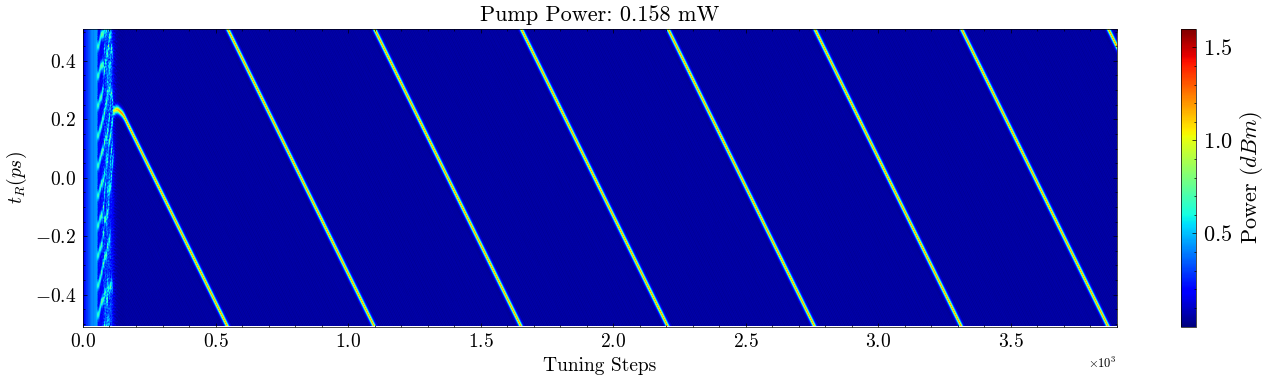
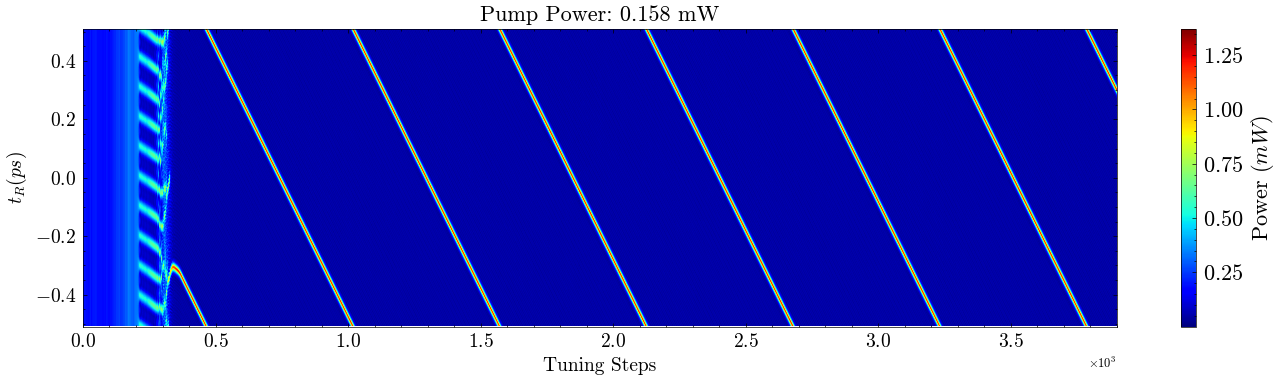
rl results update

diff --git a/rl_mrr_toptica_mimic_to_noise_test.py b/rl_mrr_toptica_mimic_to_noise_test.py
@@ -20,7 +20,7 @@ H_BAR = cts.hbar
 # %%
 class RL_MRR_Env():
 
-    def __init__(self, seq_len=50, p_max=0.3, p_min=0.1, ctrl_freq=100):
+    def __init__(self, seq_len=50, p_max=0.3, p_min=0.1, ctrl_freq=100, thermal_effect='moderate'):
         super(RL_MRR_Env, self).__init__()
 
         self.step_cntr = 0
@@ -90,8 +90,16 @@ class RL_MRR_Env():
         alpha = k0+kext
         self.alpha = alpha
 
+        if thermal_effect == 'low':
+            self.xi = -1.2e4
+        elif thermal_effect == 'moderate':
+            self.xi = -4.5e4
+        elif thermal_effect == 'high':
+            self.xi = -1.2e5
+        else:
+            raise ValueError("Invalid thermal effect. Choose from 'low', 'moderate', or 'high'.")
+
         self.tau0 = 100e-9
-        self.xi = -4.5e4
         self.delta_theta = torch.tensor(0.0, device=DEVICE, dtype=torch.float64)
 
         self.un_norm_kappa = 2*torch.pi*(fpmp[0]/Q0 + fpmp[0]/Qc)
@@ -491,7 +499,7 @@ class RL_MRR_Env():
 # %%
 # torch seed
 # torch.manual_seed(0)
-env = RL_MRR_Env(seq_len=100, p_max=0.16, p_min=0.12, ctrl_freq=100)
+env = RL_MRR_Env(seq_len=100, p_max=0.16, p_min=0.12, ctrl_freq=100, thermal_effect='low')
 fpmp = env.sim_tensor['f_pmp'].item()
 freq = (fpmp + np.arange(-220,221)*env.FSR.item())*1e-12
 # %%
@@ -596,7 +604,7 @@ plt.imshow(np.abs(1e3*np.array(acav_hist).T), aspect='auto', cmap='jet',\
             extent=[0, len(acav_hist), -1e12*env.tR.item()/2, 1e12*env.tR.item()/2])
 cbar = plt.colorbar()
 cbar.ax.tick_params(labelsize=16)
-cbar.set_label(r'Power $(dBm)$', fontsize=16)
+cbar.set_label(r'Power $(mW)$', fontsize=16)
 plt.xticks(fontsize=14)
 plt.yticks(fontsize=14)
 # Set x-ticks to exponent format
@@ -733,7 +741,7 @@ plt.show()
 # %%
 def run_test_processes(run_id, save_dir):
     # Re-create environment and agent inside the process
-    env = RL_MRR_Env(seq_len=100, p_max=0.16, p_min=0.12)
+    env = RL_MRR_Env(seq_len=100, p_max=0.16, p_min=0.12, ctrl_freq=100, thermal_effect='high')
     desired_spectrum = loadmat('desired_spec.mat')['Ecav'][0]
     desired_spectrum_tensor = torch.tensor(desired_spectrum, device=DEVICE, dtype=torch.complex128)
     from sac import SACAgent

diff --git a/rl_mrr_toptica_mimic_copy_to_noise.py b/rl_mrr_toptica_mimic_copy_to_noise.py
@@ -20,7 +20,8 @@ H_BAR = cts.hbar
 # %%
 class RL_MRR_Env():
 
-    def __init__(self, seq_len=50, p_max=0.3, p_min=0.1, ctrl_freq=100):
+    def __init__(self, seq_len=50, p_max=0.3, p_min=0.1, ctrl_freq=100, thermal_effect='moderate'):
+
         super(RL_MRR_Env, self).__init__()
 
         self.step_cntr = 0
@@ -91,7 +92,15 @@ class RL_MRR_Env():
         self.alpha = alpha
 
         self.tau0 = 100e-9
-        self.xi = -4.5e4
+        if thermal_effect == 'low':
+            self.xi = -1.2e4
+        elif thermal_effect == 'moderate':
+            self.xi = -4.5e4
+        elif thermal_effect == 'high':
+            self.xi = -1.2e5
+        else:
+            raise ValueError("Invalid thermal effect. Choose from 'low', 'moderate', or 'high'.")
+        
         self.delta_theta = torch.tensor(0.0, device=DEVICE, dtype=torch.float64)
 
         self.un_norm_kappa = 2*torch.pi*(fpmp[0]/Q0 + fpmp[0]/Qc)
@@ -491,7 +500,7 @@ class RL_MRR_Env():
 # %%
 # torch seed
 # torch.manual_seed(0)
-env = RL_MRR_Env(seq_len=100, p_max=0.16, p_min=0.12, ctrl_freq=100)
+env = RL_MRR_Env(seq_len=100, p_max=0.16, p_min=0.12, ctrl_freq=100, thermal_effect='moderate')
 fpmp = env.sim_tensor['f_pmp'].item()
 freq = (fpmp + np.arange(-220,221)*env.FSR.item())*1e-12
 # %%
@@ -531,7 +540,7 @@ if config['train']:
     # set the wandb run name
     wandb.run.name = agent.run_name
 # %% MADDPG train loop
-# '''
+'''
 if config['train']:
     logs={}
     n_games = 1000

diff --git a/torch_GA_copy.py b/torch_GA_copy.py
@@ -506,7 +506,7 @@ def LLE(fine, dwell_steps, pump_power, progress_bar=False):
     spec_dBm = np.clip(spec_dBm, -60, 10)  # Clip to avoid extreme values
     if progress_bar:
         plt.figure(figsize=(14, 4))
-        plt.imshow(np.abs(saved_data['u_probe'].cpu().numpy()).T, aspect='auto', cmap='jet')
+        plt.imshow(np.abs(Acav.T), aspect='auto', cmap='jet')
         plt.colorbar(label='Field Amplitude')
         plt.title('Field Amplitude Over Time')
         plt.xlabel('Time Steps')
